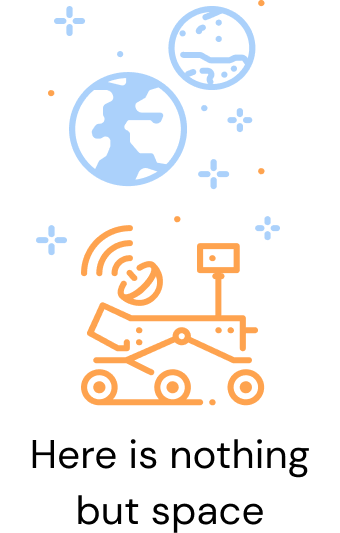
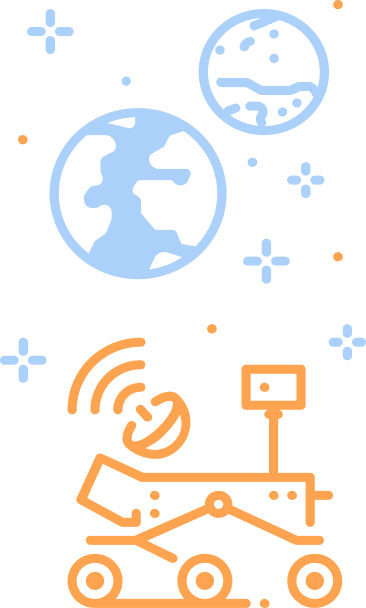
Empty state illustration with separate text

diff --git a/src/ui/screens/tips/TipDetailScreen.tsx b/src/ui/screens/tips/TipDetailScreen.tsx
@@ -1,5 +1,5 @@
 import React, {useContext, useMemo} from 'react';
-import {FlatList, Image, StyleSheet, View} from 'react-native';
+import {FlatList, StyleSheet, View} from 'react-native';
 import Identicon from '@polkadot/reactnative-identicon';
 import {BlockNumber, OpenTip} from '@polkadot/types/interfaces';
 import {formatNumber} from '@polkadot/util';
@@ -8,7 +8,6 @@ import {StackNavigationProp} from '@react-navigation/stack';
 import {Card, Divider, ListItem, Text} from '@ui-kitten/components';
 import {useAccounts} from 'context/AccountsContext';
 import {ChainApiContext} from 'context/ChainApiContext';
-import NoDataImage from 'image/no_data.png';
 import AddressInlineTeaser from '@ui/components/AddressInlineTeaser';
 import {BlockTime} from '@ui/components/BlockTime';
 import {TipReason} from '@ui/components/tips/TipReason';
@@ -22,6 +21,7 @@ import {useCall} from '@hooks/useCall';
 import {Account} from '@ui/components/Account';
 import {DashboardStackParamList} from '@ui/navigation/navigation';
 import globalStyles, {monofontFamily, standardPadding} from '@ui/styles';
+import {EmptyView} from '@ui/components/EmptyView';
 
 type ScreenProps = {
   navigation: StackNavigationProp<DashboardStackParamList>;
@@ -97,17 +97,6 @@ function TipDetailContent({tip, bestNumber}: TipDetailContentProps) {
   );
 }
 
-function EmptyTippers() {
-  return (
-    <Card style={styles.emptyTippersContainer} disabled>
-      <Image source={NoDataImage} style={styles.emptyTippersImage} />
-      <Text category="c2" style={styles.emptyTippersText}>
-        There are no tippers yet.
-      </Text>
-    </Card>
-  );
-}
-
 function TipDetailScreen({route}: ScreenProps) {
   const formatBalance = useFormatBalance();
   const {api} = useContext(ChainApiContext);
@@ -151,7 +140,7 @@ function TipDetailScreen({route}: ScreenProps) {
             />
           );
         }}
-        ListEmptyComponent={<EmptyTippers />}
+        ListEmptyComponent={<EmptyView height={200}>{`There are not tippers yet`}</EmptyView>}
         showsVerticalScrollIndicator={false}
       />
     </SafeView>
@@ -203,6 +192,7 @@ const styles = StyleSheet.create({
     width: 120,
     height: 120,
     alignSelf: 'center',
+    resizeMode: 'contain',
   },
   emptyTippersText: {
     fontFamily: monofontFamily,

diff --git a/src/ui/components/EmptyView.tsx b/src/ui/components/EmptyView.tsx
@@ -1,20 +1,31 @@
 import React from 'react';
-import {StyleSheet, View, Image} from 'react-native';
+import {StyleSheet, Image, View} from 'react-native';
 import EmptyState from 'image/EmptyState.png';
+import {Subheading} from '@ui/library';
+import {Padder} from '@ui/components/Padder';
 import {standardPadding} from '@ui/styles';
+import {isString} from 'lodash';
 
-export function EmptyView() {
+const DEFAULT_TEXT = 'Here is nothing but space';
+
+type Props = {
+  children?: React.ReactNode;
+  height?: number;
+};
+
+export function EmptyView({children = DEFAULT_TEXT, height = 400}: Props) {
   return (
     <View style={styles.container}>
-      <Image source={EmptyState} />
+      <Image source={EmptyState} style={{height}} resizeMode="contain" />
+      <Padder scale={2} />
+      {isString(children) ? <Subheading>{children}</Subheading> : children}
     </View>
   );
 }
 
 const styles = StyleSheet.create({
   container: {
-    flex: 1,
     alignItems: 'center',
-    paddingTop: standardPadding * 3,
+    padding: standardPadding * 3,
   },
 });
